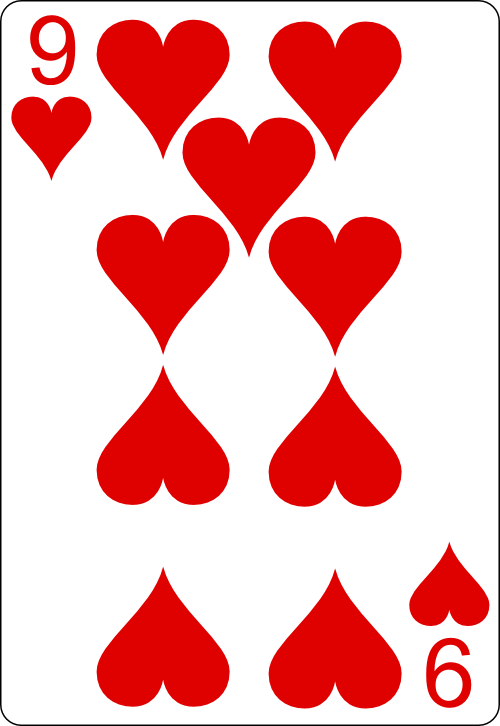
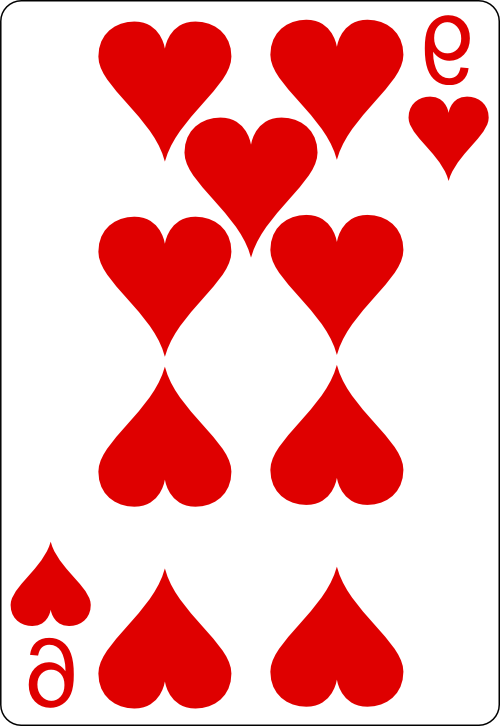
1.3v 뒤집기 애니메이션 완성, 사진 좌우반전.

diff --git a/main.html b/main.html
@@ -7,34 +7,46 @@
     <style>
       body {
         user-select: none;
-        background-color: gainsboro;
+        background-color: rgba(204, 196, 196, 0.32);
       }
 
       img {
         width: 80px;
         height: 120px;
         margin: 5px;
+        transition: 0.35s;
       }
 
       img.gameStart {
-        transition: 0.2s;
+        transition: 0.35s;
         cursor: pointer;
       }
 
       img.gameStart:hover {
-        transition: 0.2s;
+        transition: 0.35s;
         box-shadow: 0px 0px 10px green;
       }
 
       img.selected {
-        transform: rotateY(180deg);
+        transform: scaleX(-1);
+        transition: 0.35s;
+      }
+
+      #board {
+        display: grid;
+        grid-template-columns: 1fr 1fr 1fr 1fr 1fr 1fr 1fr 1fr 1fr 1fr 1fr 1fr 1fr;
       }
     </style>
   </head>
   <body>
-    <button id="showBtn" onclick="showAll()">show All</button>
-    <button id="hideBtn" onclick="hideAll()">hide All</button>
-    <button id="shuffleBtn" onclick="shuffle()">shuffle</button><br />
+    <div id="buttonBox">
+      <button id="showBtn" onclick="showAll()">힌트</button>
+      <button id="hideBtn" onclick="hideAll()">숨기기</button>
+      <button id="shuffleBtn" onclick="shuffle()">재시작</button><br />
+    </div>
+    <div id="scoreBoard">
+      <p style="font-size: 20px" id="score">score : 0</p>
+    </div>
     <div id="board">
       <!-- 52장의 카드를 보여준다. -->
     </div>
@@ -63,8 +75,6 @@
         // 3. 화면에 카드를 8초 보여주고, 카드를 가려요. 카드를 가리면서 게임이 자동으로 시작해요.
         // showAll -> hideAll -> gameStart
         showAll();
-
-        // setTimeout(gameStart, 8500);
       };
 
       // 카드를 배열에 초기화 해요.
@@ -76,7 +86,6 @@
       let showAll = () => {
         // 카드가 숨겨지기 전까지는 클릭되지 않아요.
         gamePause();
-        toggleBtnListned(false);
 
         // 섞인 숫자 배열을 통해서 카드를 태그로 만들어내요.
         board.innerHTML = cardList.reduce((prev, num, index) => {
@@ -86,7 +95,6 @@
 
         // 4초 보여준 뒤 카드를 뒤집어버려요.
         setTimeout(() => {
-          toggleBtnListned(true);
           hideAll();
         }, 4000);
       };
@@ -118,11 +126,11 @@
         const card = e.target;
         const realNumber = cardList[card.getAttribute("data-index")];
 
-        // 선택된 카드의 원래 모습을 보여주어요.
-        card.src = `./src/${realNumber}.png`;
-
         //카드에 선택되는 효과를 부여하기 위한 클래스 리스트에요
         toggleAnimation(card, true);
+
+        // 선택된 카드의 원래 모습을 보여주어요.
+        card.src = `./src/${realNumber}.png`;
 
         // 한장의 카드가 선택되어있는 상황에서 버튼의 작동을 막아요.
         toggleBtnListned(false);
@@ -141,9 +149,6 @@
         const card1 = isPairArr[0];
         const card2 = isPairArr[1];
 
-        toggleAnimation(card1, false);
-        toggleAnimation(card2, false);
-
         isPairArr = [];
 
         // 두 카드가 동일한가요?
@@ -158,6 +163,9 @@
           pairArr.push(card1.getAttribute("data-index"));
           pairArr.push(card2.getAttribute("data-index"));
 
+          // 스코어를 증가시켜요.
+          document.getElementById("score").innerHTML = `score : ${pairArr.length * 100} `;
+
           // 게임을 재개해요. 게임 재개시 버튼도 다시 동작합니다.
           setTimeout(gameStart, 1000);
 
@@ -170,6 +178,8 @@
         }
 
         setTimeout(() => {
+          toggleAnimation(card1, false);
+          toggleAnimation(card2, false);
           flipBack(card1, card2);
         }, 800);
       };
@@ -199,7 +209,7 @@
         // 모든 카드가 클릭될 수 있는 요소로 변해요.
         const cards = board.children;
 
-        // 버튼의 리스너를 작성해요.
+        // 버튼의 리스너를 작동시켜요
         toggleBtnListned(true);
 
         // 이미 맞춘 카드들은 이벤트리스너를 주면 안돼요.
